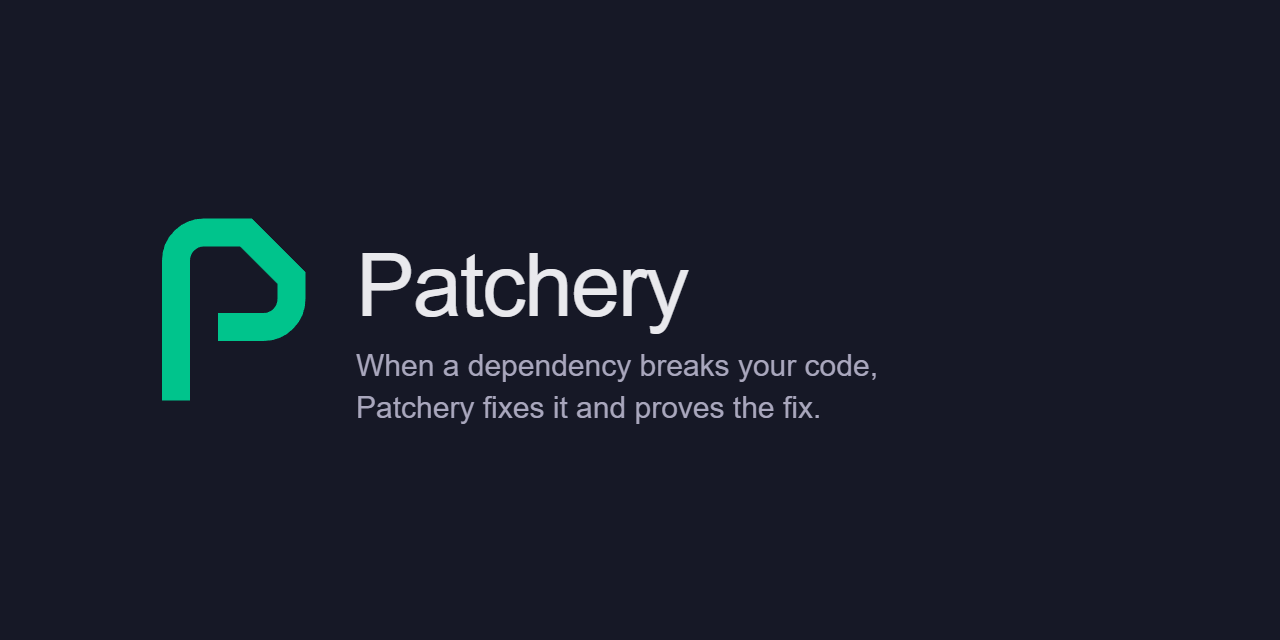
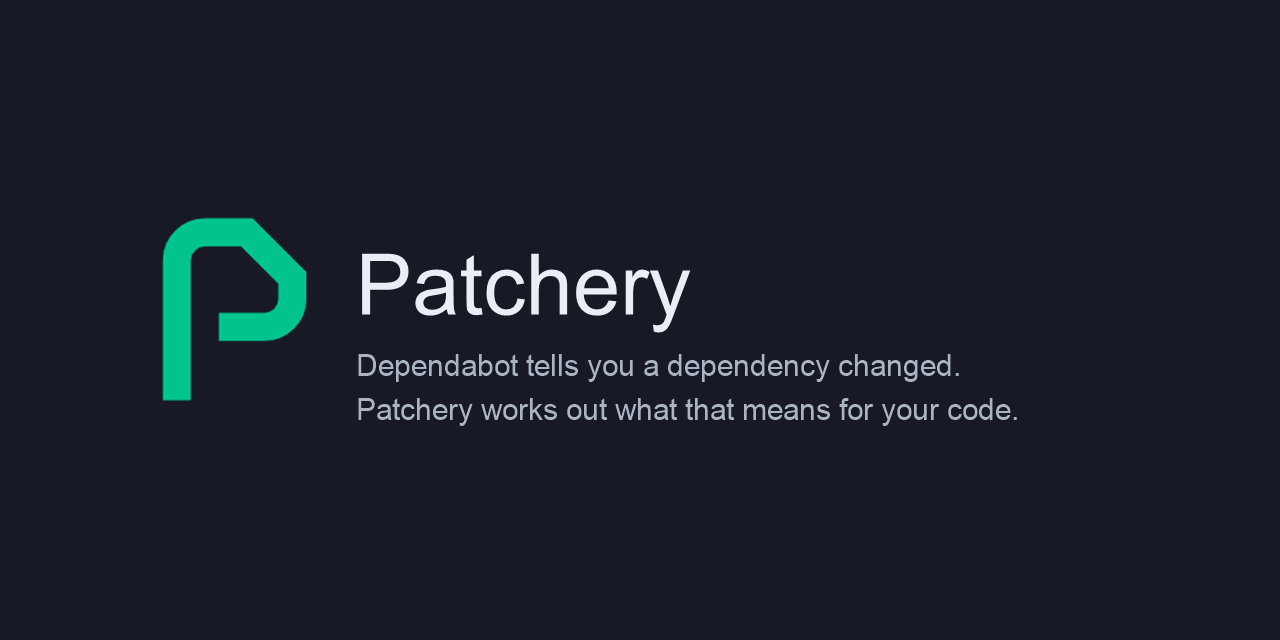
site: the share card still sold the old pitch, and its alt text described a third thing
da74820 repositioned the page onto Dependabot and rewrote every meta tag with
it - including og:image:alt, which now read "the layer above Dependabot". The
picture those tags point at was untouched and still said "When a dependency
breaks your code, Patchery fixes it and proves the fix."

So a shared link paired a new headline with an old tagline in the image, and a
screen reader was told the card said something neither of them said. Three
surfaces, three different pitches, in the one artefact a person sees before
they ever reach the site.

The card is regenerated with the current two lines. The layout is not
reinterpreted - it is reproduced: the approved logo.png is drawn, never
redrawn, and its green mark lands at (162,218) 144x183 with the title ink at
(363,254) 326x78, against (162,218) 144x183 and (363,253) 325x81 in the file
being replaced. Same background, same two greys, same measure.

og:image and twitter:image carry ?v=2, because the scrapers cache by URL and a
silent replacement would leave the old card in every preview that has already
been fetched.

Changed region(s): [[0.2812, 0.4062, 0.5312, 0.5312], [0.2812, 0.625, 0.8125, 0.6562], [0.2812, 0.5312, 0.75, 0.5938]]

diff --git a/docs/index.html b/docs/index.html
@@ -17,12 +17,12 @@
 <meta property="og:description" content="Dependabot tells you a dependency changed. Patchery works out what that means for your code.">
 <meta property="og:url" content="https://patchery.dev/">
 <link rel="canonical" href="https://patchery.dev/">
-<meta property="og:image" content="https://patchery.dev/assets/og.png">
+<meta property="og:image" content="https://patchery.dev/assets/og.png?v=2">
 <meta property="og:image:width" content="1280">
 <meta property="og:image:height" content="640">
-<meta property="og:image:alt" content="Patchery — the layer above Dependabot: it works out what a dependency change means for your code.">
+<meta property="og:image:alt" content="Patchery — Dependabot tells you a dependency changed. Patchery works out what that means for your code.">
 <meta name="twitter:card" content="summary_large_image">
-<meta name="twitter:image" content="https://patchery.dev/assets/og.png">
+<meta name="twitter:image" content="https://patchery.dev/assets/og.png?v=2">
 <meta name="twitter:title" content="Patchery">
 <meta name="twitter:description" content="Dependabot tells you a dependency changed. Patchery works out what that means for your code.">
 
